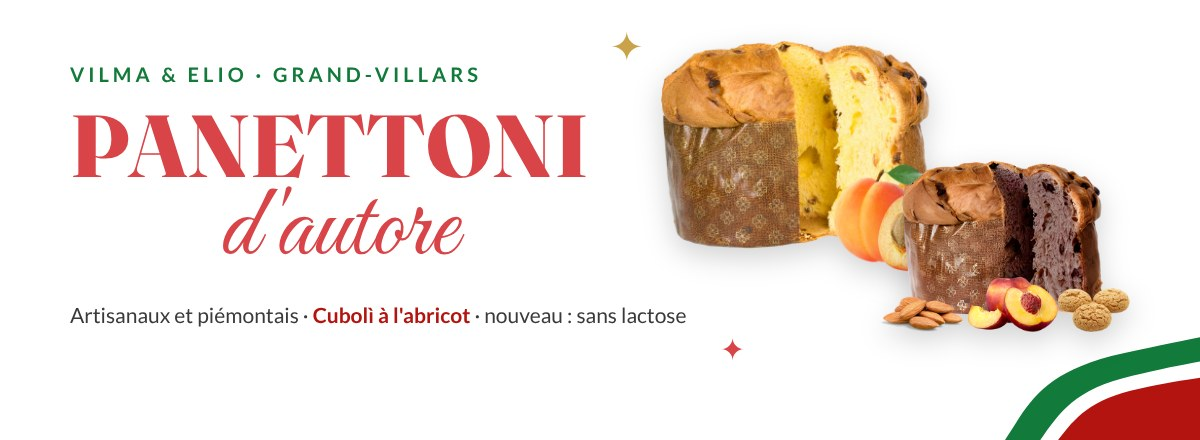
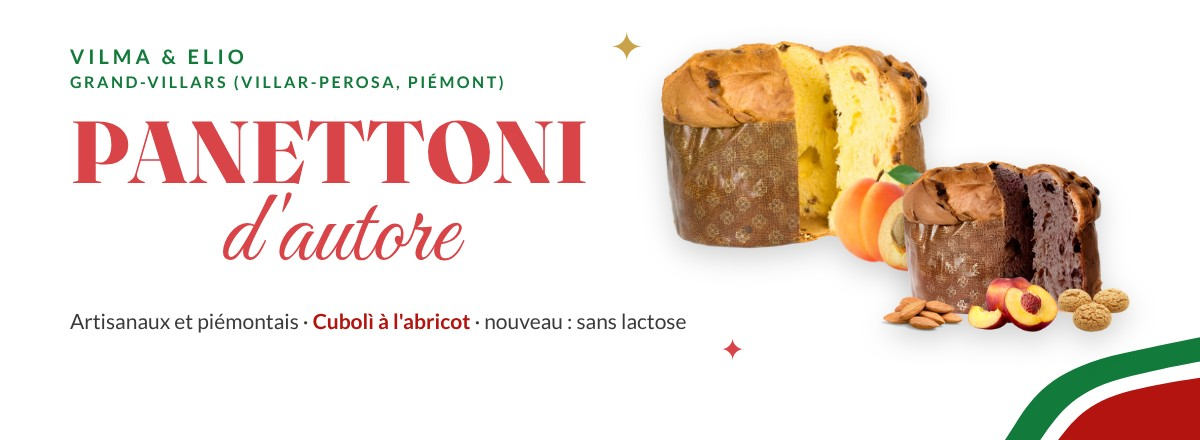
Bandeau : Grand-Villars (Villar-Perosa, Piémont)
Claude-Session: https://claude.ai/code/session_01TzX3QZxQqGLbcH6vzUSX9p

Changed region(s): [[0.0617, 0.2364, 0.4933, 0.5909], [0.0617, 0.6795, 0.5858, 0.7682], [0.0617, 0.0886, 0.4317, 0.2068]]

diff --git a/campagne/panettoni-vilma/visuels/source/bandeau.html b/campagne/panettoni-vilma/visuels/source/bandeau.html
@@ -4,7 +4,7 @@
 body { margin:0; }
 .b { width:1200px; height:440px; position:relative; overflow:hidden; background:#fff; font-family:Lato, Arial, sans-serif; }
 .vague { position:absolute; right:-30px; bottom:-40px; width:300px; height:150px; }
-.texte { position:absolute; left:70px; top:62px; width:640px; }
+.texte { position:absolute; left:70px; top:44px; width:640px; }
 .sur { color:#127a3a; font-weight:700; letter-spacing:4px; text-transform:uppercase; font-size:20px; }
 h1 { margin:18px 0 0; line-height:.95; }
 h1 .gras { font-family:Fraunces, Georgia, serif; font-weight:800; font-size:88px; color:#d94448; letter-spacing:1px; }
@@ -23,7 +23,7 @@ h1 .script { display:block; font-family:'Great Vibes', cursive; font-weight:400;
     <path d="M130 230 C 200 170, 190 115, 300 90 C 365 75, 410 70, 430 68 L430 230 Z" fill="#b3140f"/>
   </svg>
   <div class="texte">
-    <div class="sur">Vilma &amp; Elio · Grand-Villars</div>
+    <div class="sur">Vilma &amp; Elio<br><span style="white-space:nowrap;font-size:16px;letter-spacing:2.5px">Grand-Villars (Villar-Perosa, Piémont)</span></div>
     <h1><span class="gras">PANETTONI</span><span class="script">d'autore</span></h1>
     <div class="sous">Artisanaux et piémontais · <b>Cubolì à l'abricot</b> · nouveau : sans lactose</div>
   </div>
